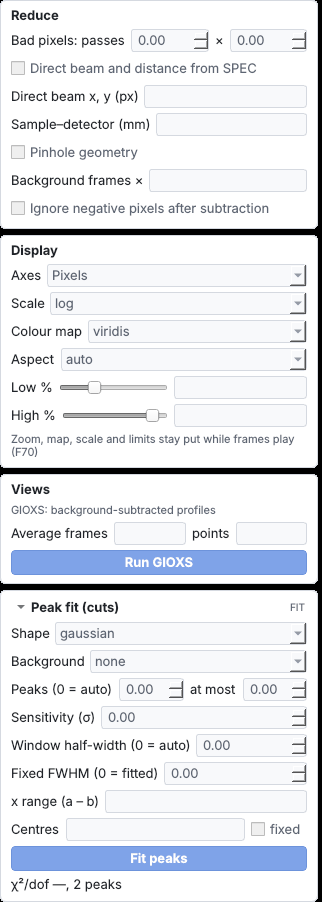
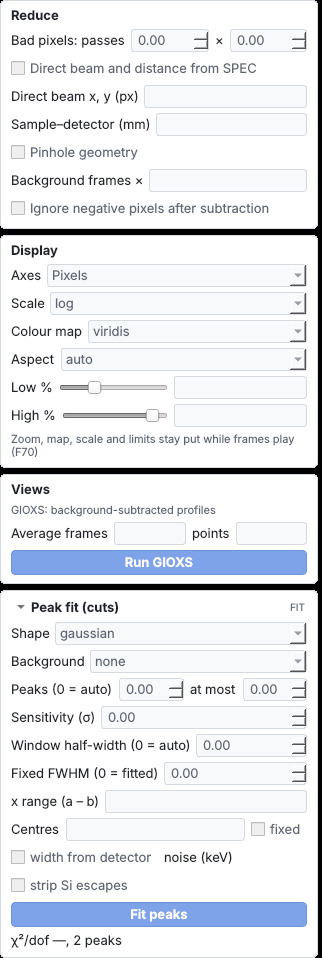
Fit lines options: width from the detector, Si escape stripping (F90 P2, P3)
The owner asked for these as options, not defaults (2026-11-24). In the
Fluorescence line fit options dialog (MCA only; the GUI manager was told
the lines), three controls are added:
- 'width from the detector' fixes the line width at
  fluorescence.detector_fwhm at the first centre, the element's line, and
  overrides the Fixed FWHM field;
- 'Detector noise (FWHM)', in keV, with default 0.12 (an assumption for a
  Vortex);
- 'strip Si escape peaks' subtracts each spectrum's escape spectrum
  (fluorescence.strip_escape) before the fit.
They are kept in the preference mca_line_options, and the command
recorded with a fit says which were on. Both are off by default, so no
output changes.

Each control has a tooltip, an inventory entry, a workflow step, an ngui
place (the only screenshot it changes, 22_left_frames, is regenerated),
MANUAL_NOTES and controls.md. The window test checks the stored options,
the FWHM passed to fit_series and the stripped spectra.
Quick suite: 948 passed.

Claude-Session: https://claude.ai/code/session_017UNj92oeebHHmBzfCF19ve

Changed region(s): [[0.0, 0.0, 0.9938, 0.9933], [0.4969, 0.1242, 0.9317, 0.1552]]

diff --git a/mainwindow.py b/mainwindow.py
@@ -2397,6 +2397,13 @@ class MainWindow (QMainWindow):
         off by default since 2026-11-23, F91)."""
         return bool(self.prefs.get('sum_all_legacy_average',False))
 
+    def mcaLineOptions(self):
+        """The MCA "Fit lines" options F90 P2 and P3 (preference
+        'mca_line_options'): detector_width (bool), noise_kev, strip_escape."""
+        lo=dict(prefs_store.DEFAULTS['mca_line_options'])
+        lo.update(self.prefs.get('mca_line_options') or {})
+        return lo
+
     def mcaFitPoisson(self):
         """True when "Fit lines" fits each spectrum by Poisson maximum
         likelihood (F90 P1; preference 'mca_fit_poisson', off by default: the
@@ -6811,6 +6818,26 @@ class MainWindow (QMainWindow):
                       ('x range (min:max)',rng),('Centres',cen)):
             form.addRow(lab,w)
         form.addRow(fix)
+        if which=='mca':        # F90 P2, P3: options, not defaults (the owner, 2026-11-24)
+            lo=self.mcaLineOptions()
+            dw=QCheckBox('width from the detector',d); dw.setObjectName('mcaFitDetectorWidthCheckBox')
+            dw.setChecked(lo['detector_width'])
+            dw.setToolTip('Fix the line width at the detector\'s resolution at the first centre (the element\'s line): '
+                          'FWHM = sqrt(noise^2 + 8 ln2 x 3.65 eV x 0.115 x E). A free width trades off against a '
+                          'curved background (synthetic: +45 % with the elastic\'s escape peak under Zn Ka, C42). '
+                          'Needs a centre; the Fixed FWHM above is then ignored.')
+            noise=QDoubleSpinBox(d); noise.setObjectName('mcaFitNoiseSpinBox'); noise.setRange(0.0,1.0)
+            noise.setDecimals(3); noise.setSingleStep(0.005); noise.setSuffix(' keV'); noise.setValue(lo['noise_kev'])
+            noise.setToolTip('The detector\'s electronic noise as a FWHM (keV): calibrate it on a strong peak, '
+                             'noise^2 = FWHM^2 - 8 ln2 x 3.65 eV x 0.115 x E (0.12 keV is typical of a Vortex; an assumption).')
+            esc=QCheckBox('strip Si escape peaks',d); esc.setObjectName('mcaFitEscapeCheckBox')
+            esc.setChecked(lo['strip_escape'])
+            esc.setToolTip('Before fitting, subtract each spectrum\'s Si K escape spectrum: what was measured 1.740 keV '
+                           'higher, times Reed\'s escape fraction (about 0.1 % at 10 keV; constants from memory). Under '
+                           '10 keV the elastic\'s escape peak at 8.26 keV sits under Zn Ka (C42).')
+            form.addRow(dw)
+            form.addRow('Detector noise (FWHM)',noise)
+            form.addRow(esc)
         lay.addLayout(form)
         res=QLabel(self.cutFitSummary() if which=='cut' else self.mcaFitSummary(),d)
         res.setObjectName('%sFitResultLabel' % which); res.setWordWrap(True)
@@ -6843,6 +6870,9 @@ class MainWindow (QMainWindow):
                                  x_range=xr,centres=cs,fix_centres=fix.isChecked(),fwhm=fw.value())
             setattr(self,attr,new)
             self.setPreference(pref,peaks.options_to_dict(new))          # kept between sessions
+            if which=='mca':
+                self.setPreference('mca_line_options',{'detector_width':dw.isChecked(),'noise_kev':noise.value(),
+                                                       'strip_escape':esc.isChecked()})
         for w in (shape,bg):
             w.currentIndexChanged.connect(apply)
         for w in (npk,mpk,prom,win,fw):
@@ -6850,6 +6880,10 @@ class MainWindow (QMainWindow):
         for w in (rng,cen):
             w.editingFinished.connect(apply)
         fix.toggled.connect(apply)
+        if which=='mca':
+            dw.toggled.connect(apply)
+            esc.toggled.connect(apply)
+            noise.valueChanged.connect(apply)
         go.clicked.connect(lambda: (apply(),self.fitCuts() if which=='cut' else self.mcaFitLines()))
         if which=='cut':
             save.clicked.connect(self.saveCutFits)
@@ -7284,8 +7318,13 @@ class MainWindow (QMainWindow):
         if any(len(d)!=len(data[0]) or not np.allclose(d[:,0],data[0][:,0]) for d in data):
             self.messageBox('The selected spectra have different energy axes; fit them in groups with the same axis.')
             return
+        lopt=self.mcaLineOptions()
+        if lopt['strip_escape']:      # F90 P3: the Si escape spectrum off each spectrum first
+            data=[fluorescence.strip_escape(d) for d in data]
         x=data[0][:,0]
         o=self.mcaFitOptions
+        if lopt['detector_width'] and o.centres:   # F90 P2: the width at the element's line from the detector
+            o=dataclasses.replace(o,fwhm=fluorescence.detector_fwhm(o.centres[0],lopt['noise_kev']))
         if o.x_range is None:
             try:
                 lo,hi=(float(t) for t in str(self.ui.mcaRanLineEdit.text()).split(':'))
@@ -7326,7 +7365,9 @@ class MainWindow (QMainWindow):
         p=ref.peaks[j]
         self.command='Flu Fit lines, scans=[%s], line at %.4g (FWHM %.3g), %s on %s background%s' % (
             listText(np.sort(self.selectedScanNums)),p.centre,p.fwhm,o.shape,o.background,
-            ', Poisson weights' if self.mcaFitPoisson() else '')
+            ''.join(t for t,on in ((', Poisson weights',self.mcaFitPoisson()),
+                                   (', width from the detector',lopt['detector_width'] and bool(self.mcaFitOptions.centres)),
+                                   (', Si escapes stripped',lopt['strip_escape'])) if on))
         self.notify('Fit lines: sum of %d spectra: %s. Intensities of the line at %.4g (area / channel width) in the '
                     'integral plot.' % (len(each),ref.summary(),p.centre),title='Fit lines',level='info')
         if self.mcaFitDialog is not None:

diff --git a/tests/test_gui_workbook.py b/tests/test_gui_workbook.py
@@ -123,6 +123,41 @@ def test_fit_lines_poisson_switch(loaded, qapp, dataset, recorder):
     assert recorder.exceptions == []
 
 
+def test_fit_lines_detector_width_and_escape_options(loaded, qapp, dataset, recorder, monkeypatch):
+    """F90 P2, P3 (options, not defaults): the Fit options dialog's three
+    MCA controls are stored in 'mca_line_options'; with them on, the fit
+    gets the detector's FWHM at the first centre and spectra stripped of
+    their Si escapes (the command says so)."""
+    from lss_core import fluorescence, peaks
+    sweep.state_mca_frames(loaded, qapp, dataset)
+    loaded.mcaFitLinesPushButton.click()
+    qapp.processEvents()
+    centre = loaded.mcaLineFits[0].peaks[0].centre
+    loaded.mcaFitOptions = peaks.FitOptions(centres=(centre,), n_peaks=1, background='quadratic')
+    loaded.showMcaFitOptions()
+    d = loaded.mcaFitDialog
+    from PyQt5.QtWidgets import QCheckBox, QDoubleSpinBox
+    d.findChild(QDoubleSpinBox, 'mcaFitNoiseSpinBox').setValue(0.15)
+    d.findChild(QCheckBox, 'mcaFitDetectorWidthCheckBox').setChecked(True)
+    d.findChild(QCheckBox, 'mcaFitEscapeCheckBox').setChecked(True)
+    assert loaded.prefs['mca_line_options'] == {'detector_width': True, 'noise_kev': 0.15, 'strip_escape': True}
+    loaded.mcaFitOptions = peaks.FitOptions(centres=(centre,), n_peaks=1, background='quadratic')
+    seen = {}
+    real = peaks.fit_series
+
+    def spy(x, spectra, sigmas=None, options=None, **kw):
+        seen['fwhm'], seen['first'] = options.fwhm, np.array(spectra[0])
+        return real(x, spectra, sigmas, options, **kw)
+    monkeypatch.setattr(peaks, 'fit_series', spy)
+    stripped = fluorescence.strip_escape(loaded.nomMcaData[loaded.selectedMcaScanNums[0]])
+    loaded.mcaFitLinesPushButton.click()
+    qapp.processEvents()
+    assert seen['fwhm'] == pytest.approx(fluorescence.detector_fwhm(centre, 0.15))
+    assert np.allclose(seen['first'], stripped[:, 1])
+    assert 'width from the detector' in loaded.command and 'Si escapes stripped' in loaded.command
+    assert recorder.exceptions == []
+
+
 def test_fit_options_are_kept_between_sessions(loaded, qapp, recorder):
     loaded.cutFitOptionsPushButton.click()
     d = loaded.cutFitDialog

diff --git a/ngui/inventory_text.py b/ngui/inventory_text.py
@@ -168,6 +168,9 @@ INVENTORY = {
     'cutFitRangeLineEdit': ('lineedit', 'x range (min:max)', 'Peak fit options / Fluorescence line fit options', 'x range to fit; empty: whole cut (MCA: the Range field)'),
     'cutFitCentresLineEdit': ('lineedit', 'Centres', 'Peak fit options / Fluorescence line fit options', 'Starting centres (e.g. known line energies)'),
     'cutFitFixCheckBox': ('checkbox', 'fix the centres', 'Peak fit options / Fluorescence line fit options', 'Keeps the given centres fixed'),
+    'mcaFitDetectorWidthCheckBox': ('checkbox', 'width from the detector', 'Fluorescence line fit options', "Fixes the line width at the detector's resolution at the first centre, from the detector noise (F90 P2; preference mca_line_options)"),
+    'mcaFitNoiseSpinBox': ('spinbox', 'Detector noise (FWHM)', 'Fluorescence line fit options', "The detector's electronic noise FWHM (keV) for the width from the detector"),
+    'mcaFitEscapeCheckBox': ('checkbox', 'strip Si escape peaks', 'Fluorescence line fit options', "Subtracts each spectrum's Si K escape spectrum (Reed's fraction) before Fit lines (F90 P3; preference mca_line_options)"),
     'cutFitResultLabel': ('label', '', 'Peak fit options / Fluorescence line fit options', 'Summary of the last fit (mcaFitResultLabel in the fluorescence dialog)'),
     'cutFitNowPushButton': ('button', 'Fit now', 'Peak fit options / Fluorescence line fit options', 'Fits with these options'),
     'cutFitSavePushButton': ('button', 'Save results... / Save to workbook', 'Peak fit options / Fluorescence line fit options', 'Cut dialog: writes the fits as a text table; fluorescence dialog: saves into the workbook'),

diff --git a/tests/test_gui_preferences.py b/tests/test_gui_preferences.py
@@ -56,7 +56,8 @@ def test_settings_are_saved_and_read_back(window, qapp, recorder):
                       'panes_shown': [],                                    # D59: no pane shown by default (2026-11-23)
                       'state_badges': 'on',                                 # F85 badges shown (2026-11-23)
                       'mca_fit_legacy': False, 'burn_legacy_tab': False,    # F86 Reduction options (2026-11-23)
-                      'mca_fit_poisson': False}                             # F90 P1, an option until the study (2026-11-24)
+                      'mca_fit_poisson': False,                             # F90 P1, an option until the study (2026-11-24)
+                      'mca_line_options': {'detector_width': False, 'noise_kev': 0.12, 'strip_escape': False}}   # F90 P2, P3
     assert preferences.load() == stored
     assert recorder.exceptions == []
 

diff --git a/lss_core/preferences.py b/lss_core/preferences.py
@@ -49,6 +49,9 @@ DEFAULTS = {
     # MCA "Fit lines": True fits each spectrum's heights by Poisson maximum likelihood (F90 P1);
     # off by default until the owner's study (2026-11-24): least squares weighted by the data's σ
     'mca_fit_poisson': False,
+    # MCA "Fit lines" options (F90 P2, P3; options, not defaults, 2026-11-24): the line width from
+    # the detector's resolution (its electronic noise FWHM, keV) and Si escape stripping
+    'mca_line_options': {'detector_width': False, 'noise_kev': 0.12, 'strip_escape': False},
     # ngui: a second window sketching the proposed layout (non-functional prototype, F82;
     # docs/gui/prototype.md); off by default (owner, 2026-11-23)
     'ngui': False,

diff --git a/ngui/layout.py b/ngui/layout.py
@@ -224,6 +224,8 @@ FRAMES = {
             C('cutFitFwhmSpinBox', 'Fixed FWHM (0 = fitted)'),
             C('cutFitRangeLineEdit', 'x range (a – b)'),
             ROW(C('cutFitCentresLineEdit', 'Centres'), C('cutFitFixCheckBox', 'fixed')),
+            ROW(C('mcaFitDetectorWidthCheckBox', 'width from detector'), C('mcaFitNoiseSpinBox', 'noise (keV)')),
+            C('mcaFitEscapeCheckBox', 'strip Si escapes', note='Fluorescence only: F90 P2, P3 (options, not defaults)'),
             C('cutFitPushButton', 'Fit peaks'),
             C('cutFitResultLabel', 'χ²/dof —, 2 peaks'),
         ], replaces=['cutFitDialog', 'cutFitOptionsPushButton'], fold=True,

diff --git a/docs/gui/workflows.md b/docs/gui/workflows.md
@@ -241,7 +241,7 @@ flowchart TD
 | burn-fluo.detector | For the 7-element detector, choose the elements (XFNTR uses the central one, element 1) | File > Preferences > Fluorescence detector | `actionPreferences`, `prefMcaCentrePushButton`, `prefMcaAllPushButton`, `prefMcaChannel1CheckBox` | elements summed (default all) | no | choose by series kind (xfntr/burn of an XFNTR sample - centre; energy - all) (D49) | owner 2026-11-19 (D49); code | A global preference in a dialog; what a burn of fluorescence should use is not stated (Q-BURN-3) |
 | burn-fluo.series (shared.series) | Choose the burn scan | left panel | `seriesComboBox`, `seriesWholeCheckBox`, `scanListWidget`, `scansLineEdit` | which series (or scans by number); Whole series on (default) or off | partly | select the newest series of the kind the user works on; in live mode follow it (built for whole-series selections, L3) | code (is_burn does not look at the detector); guess | If the scan has no #V line its spectra are not listed at all (physics_notes 2026-11-19, checked on the October file) |
 | burn-fluo.spectra (shared.frames) | Select all spectra; the MCA tab plots them normalised (Monc, absorber from the last #A) | left panel (image list, labelled 'Pilatus:' or 'Vortex:') | `imageListWidget`, `imageSelectAllCheckBox`, `mcaNormComboBox`, `mcaCalibCheckBox` | all frames (usual) or a subset (left out of the reduction, kept in remakes) | no | select all frames of a whole-series selection by default; show a movie instead of tiles (F69) | code (mcaSelectedScanChanged) | Selecting all frames draws every frame as a tile on the Pilatus tab (owner 2026-11-22: more than 6 tiles is too many, F69)<br>Selecting frames switches to the Pilatus tab (2) or the MCA tab (5) (code) |
-| burn-fluo.line | Measure the line in each spectrum - Fit lines (sum fixes position and width, each spectrum amplitude and background) or a window Sum All | MCA tab | `mcaRanLineEdit`, `mcaFitLinesPushButton`, `mcaFitOptionsPushButton`, `mcaSumAllPushButton`, `mcaXAxisComboBox` | the line window; fitted lines (owner D47 - lines count, not the Vortex counter) or window sum; x axis Frame | no | a burn dialog for MCA series (TODO - feed fit_series through trends.compare) | code; owner 2026-11-19 (D47); guess (that users do this for burns) | The Burn Test button refuses MCA scans (it needs Pilatus frames; code, pilBurnTest)<br>The MCA x axis offers Frame, Qz, Energy; no time axis (TODO area E: time axis in MCA) |
+| burn-fluo.line | Measure the line in each spectrum - Fit lines (sum fixes position and width, each spectrum amplitude and background) or a window Sum All | MCA tab | `mcaRanLineEdit`, `mcaFitLinesPushButton`, `mcaFitOptionsPushButton`, `mcaFitDetectorWidthCheckBox`, `mcaFitNoiseSpinBox`, `mcaFitEscapeCheckBox`, `mcaSumAllPushButton`, `mcaXAxisComboBox` | the line window; fitted lines (owner D47 - lines count, not the Vortex counter) or window sum; x axis Frame | no | a burn dialog for MCA series (TODO - feed fit_series through trends.compare) | code; owner 2026-11-19 (D47); guess (that users do this for burns) | The Burn Test button refuses MCA scans (it needs Pilatus frames; code, pilBurnTest)<br>The MCA x axis offers Frame, Qz, Energy; no time axis (TODO area E: time axis in MCA) |
 | burn-fluo.judge | Look at intensity against frame number; no trend models, no 5 % time in the window | MCA tab (integral plot, list) | `mcaDataListWidget` | whether the line intensity changes | no | the same Trends panel as the Pilatus burns | code; guess | This workflow is not supported as a burn test today; the user judges by eye or exports |
 | burn-fluo.export | Export the intensities (x = frame) and analyse elsewhere; saved to the workbook as a fluorescence sum or line fit | MCA tab | `mcaExportIntPushButton`, `mcaSaveWorkbookPushButton` | file name | partly |  | code; guess |  |
 
@@ -895,6 +895,9 @@ flowchart TD
 | Control | burn-ref | burn-gid | burn-fluo | reflectivity | gid | xfntr | exafs | gisaxs | cuts | alignment | mca-look | flex-plot | session | general |
 |---|---|---|---|---|---|---|---|---|---|---|---|---|---|---|
 | `mcaFitDialog` Fluorescence line fit options |  |  |  |  |  | i | i |  |  |  |  |  |  |  |
+| `mcaFitDetectorWidthCheckBox` width from the detector |  |  | S |  |  | i |  |  |  |  |  |  |  |  |
+| `mcaFitNoiseSpinBox` Detector noise (FWHM) |  |  | S |  |  | i |  |  |  |  |  |  |  |  |
+| `mcaFitEscapeCheckBox` strip Si escape peaks |  |  | S |  |  | i |  |  |  |  |  |  |  |  |
 
 ### GID patching worksheet
 

diff --git a/docs/manual/controls.md b/docs/manual/controls.md
@@ -88,7 +88,7 @@ Generated by `python tests/tools/dump_tooltips.py`; do not edit by hand. Control
 | Main window | MCA |  | QToolButton | Subplots | Configure subplots |
 | Main window | MCA |  | QToolButton | Customize | Edit axis, curve and image parameters |
 | Main window | MCA |  | QToolButton | Save | Save the figure |
-| Main window | MCA | mcaFitLinesPushButton | QPushButton | Fit lines | Fit the fluorescence line(s) of all selected spectra (F22a, owner's rule): the sum of the spectra is fitted within the range in the Sum All field for the lines' positions and widths; then every spectrum is fitted with those fixed, heights and background only (a Gaussian on a quadratic background by default, for the Rayleigh spill-over). The intensity of the line asked for (the first energy given in Fit options, the element's; the strongest when none is given), as its area over the channel width (the same units as Sum All, background removed), goes to the integral plot and list like Sum All. "Fit options..." beside it sets the shape, background, lines. |
+| Main window | MCA | mcaFitLinesPushButton | QPushButton | Fit lines | Fit the fluorescence line(s) of all selected spectra (F22a, owner's rule): the sum of the spectra is fitted within the range in the Sum All field for the lines' positions and widths; then every spectrum is fitted with those fixed, heights and background only, weighted by its errors (Poisson maximum likelihood with the preference mca_fit_poisson, F90 P1) (a Gaussian on a quadratic background by default, for the Rayleigh spill-over). The intensity of the line asked for (the first energy given in Fit options, the element's; the strongest when none is given), as its area over the channel width (the same units as Sum All, background removed), goes to the integral plot and list like Sum All. "Fit options..." beside it sets the shape, background, lines. |
 | Main window | MCA | mcaFitOptionsPushButton | QPushButton | Fit options... | Shape, background, number of lines or their energies, sensitivity, for "Fit lines". |
 | Main window | MCA | mcaSaveWorkbookPushButton | QPushButton | Save | Save what is shown into this SPEC file's workbook (<SPEC file>_reader.xlsx in the output folder): the reduced data, any fits of it, the settings that made it, tied to its scans and labelled by experiment type; each Save of the same scans is a new version. Each Save asks for an optional note (Cancel: nothing saved); Shift-click saves without asking (Preferences > Saving turns the question off). Export still writes the usual text files. |
 | Main window | MCA | mcaGainCheckBox | QCheckBox | / gain | Also divide by the Monc gain: normalise by M x S / (5 uA/V, the usual gain) instead of M, with S the SR570 sensitivity from "#M Monc Gain" (last one above the scan if it has none). Puts scans taken at different gains on one scale. Only for the Monc monitor; unknown gains get no factor. |

diff --git a/docs/gui/inventory.md b/docs/gui/inventory.md
@@ -178,6 +178,9 @@ Generated by `python tests/tools/gui_map.py` from `docs/gui/inventory/*.yaml`; d
 | `cutFitRangeLineEdit` | lineedit | x range (min:max) | Peak fit options / Fluorescence line fit options | apply | x range to fit; empty: whole cut (MCA: the Range field) | cuts; gid; xfntr; exafs |  | always | True | For MCA duplicates the tab's Range field. |
 | `cutFitCentresLineEdit` | lineedit | Centres | Peak fit options / Fluorescence line fit options | apply | Starting centres (e.g. known line energies) | cuts; gid; xfntr; exafs |  | always | True | Line energies typed by hand; no element lookup (F47). |
 | `cutFitFixCheckBox` | checkbox | fix the centres | Peak fit options / Fluorescence line fit options | apply | Keeps the given centres fixed | cuts; gid; xfntr; exafs | centres given | always | True |  |
+| `mcaFitDetectorWidthCheckBox` | checkbox | width from the detector | Fluorescence line fit options | apply | Fixes the line width at the detector's resolution at the first centre, from the detector noise (F90 P2; preference mca_line_options) | xfntr | a centre given (the element's line) | MCA dialog only | True | An option, not a default (owner, 2026-11-24); overrides the Fixed FWHM field when on. |
+| `mcaFitNoiseSpinBox` | spinbox | Detector noise (FWHM) | Fluorescence line fit options | apply | The detector's electronic noise FWHM (keV) for the width from the detector | xfntr | width from the detector on | MCA dialog only | True | 0.12 keV default (an assumption for a Vortex); calibrate on a strong peak. |
+| `mcaFitEscapeCheckBox` | checkbox | strip Si escape peaks | Fluorescence line fit options | apply | Subtracts each spectrum's Si K escape spectrum (Reed's fraction) before Fit lines (F90 P3; preference mca_line_options) | xfntr | spectra on an energy axis | MCA dialog only | True | An option, not a default (owner, 2026-11-24). |
 | `cutFitResultLabel` | label |  | Peak fit options / Fluorescence line fit options |  | Summary of the last fit (mcaFitResultLabel in the fluorescence dialog) | cuts; gid; xfntr; exafs |  | always | True |  |
 | `cutFitNowPushButton` | button | Fit now | Peak fit options / Fluorescence line fit options | fitCuts / mcaFitLines | Fits with these options | cuts; gid; xfntr; exafs | cuts plotted / spectra selected | always | True |  |
 | `cutFitSavePushButton` | button | Save results... / Save to workbook | Peak fit options / Fluorescence line fit options | saveCutFits / saveMcaToWorkbook | Cut dialog: writes the fits as a text table; fluorescence dialog: saves into the workbook | cuts; gid; xfntr; exafs; session | a fit | always | True | One button, two meanings. |

diff --git a/docs/MANUAL_NOTES.md b/docs/MANUAL_NOTES.md
@@ -432,3 +432,4 @@ stable (burn tests), the confident 5 % time.
 - SpecPlot (2026-11-24): an hklscan is plotted against the index it moves (from the `#S` command, else the column that varies; L when nothing moves); other scans against their first column; y the last column, as before.
 - SPEC files (2026-11-24): L is Qz; a scan at fixed L whose L disagrees with its In_Rot and Out_Rot by more than 1 % is reported once on opening (a changed SPEC lattice would scale every Qz).
 - MCA "Fit lines" weights (2026-11-24, F90 P1): the preference `mca_fit_poisson` fits each spectrum's heights by Poisson maximum likelihood instead of least squares weighted by its error bars (which reads weak lines low); off by default until the owner's study.
+- MCA Fit options (2026-11-24, F90 P2, P3; options, not defaults): "width from the detector" fixes the line width at the detector's resolution at the first centre (with "Detector noise (FWHM)", keV); "strip Si escape peaks" subtracts each spectrum's escape spectrum before the fit. Kept in the preference `mca_line_options`; the command recorded with the fit says when they were on.
